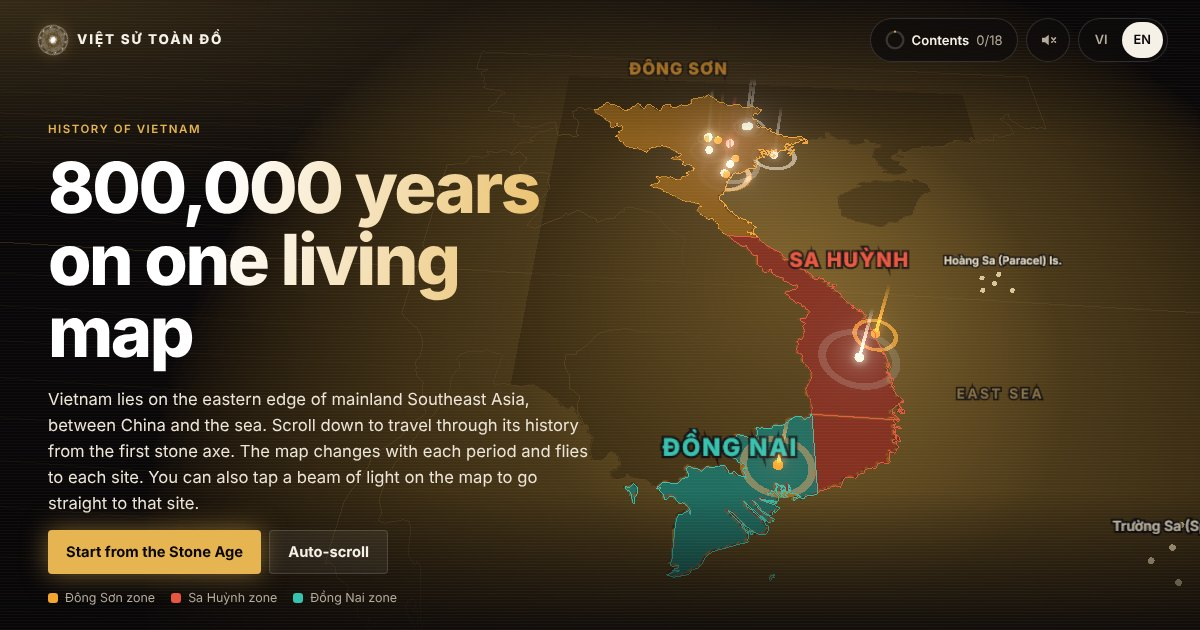
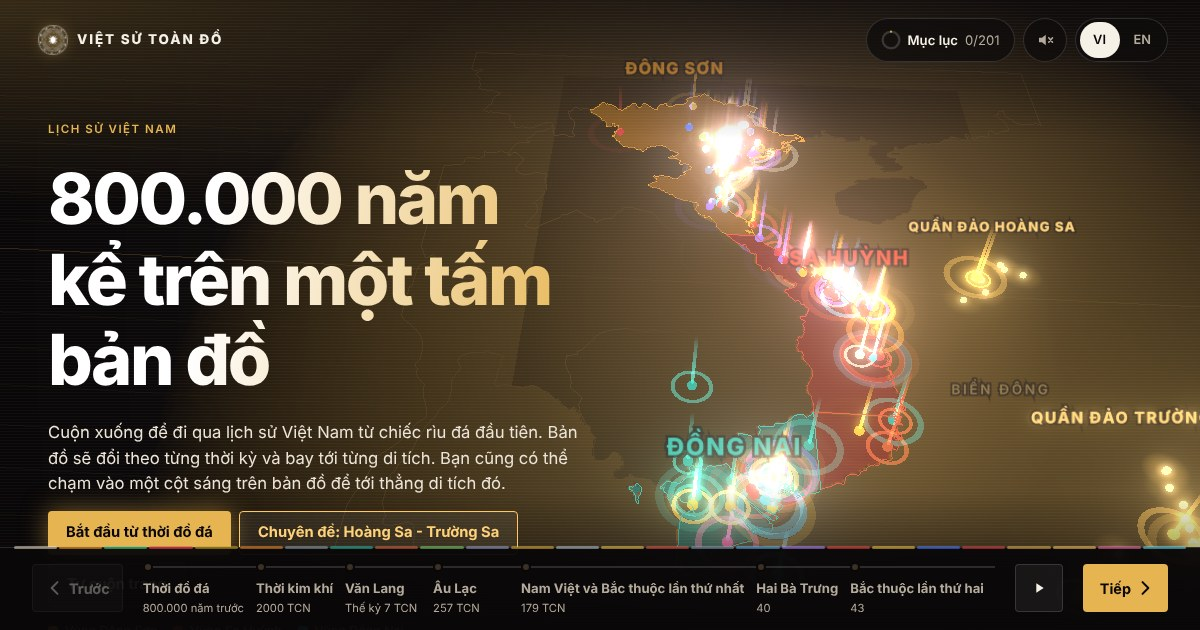
Link preview in Vietnamese: title, description and a new og image
Claude-Session: https://claude.ai/code/session_012HFGmTWt8d3fouoqffd3jb

diff --git a/index.html b/index.html
@@ -5,12 +5,12 @@
     <meta name="viewport" content="width=device-width, initial-scale=1.0, viewport-fit=cover" />
     <meta name="theme-color" content="#090708" />
     <title>Việt Sử Toàn Đồ</title>
-    <meta name="description" content="Lịch sử Việt Nam từ thời đồ đá đến hiện tại, song ngữ Việt - Anh, có dẫn nguồn." />
+    <meta name="description" content="Lịch sử Việt Nam từ thời đồ đá đến hiện tại, kể trên bản đồ địa hình 3D, mỗi ý đều có nguồn." />
     <meta property="og:type" content="website" />
-    <meta property="og:url" content="https://viet-su.vercel.app/" />
-    <meta property="og:title" content="Việt Sử Toàn Đồ - The history of Vietnam, told on a map" />
-    <meta property="og:description" content="800,000 years of Vietnamese history on a 3D terrain map, in Vietnamese and English, with sources. Lịch sử Việt Nam kể trên bản đồ, song ngữ, có dẫn nguồn." />
-    <meta property="og:image" content="https://viet-su.vercel.app/og.jpg" />
+    <meta property="og:url" content="https://vietsutoando.com/" />
+    <meta property="og:title" content="Việt Sử Toàn Đồ - Lịch sử Việt Nam trên một tấm bản đồ" />
+    <meta property="og:description" content="Lịch sử Việt Nam từ thời đồ đá đến hiện tại, kể trên bản đồ địa hình 3D, mỗi ý đều có nguồn." />
+    <meta property="og:image" content="https://vietsutoando.com/og.jpg" />
     <meta name="twitter:card" content="summary_large_image" />
     <link rel="preconnect" href="https://fonts.googleapis.com" />
     <link rel="preconnect" href="https://fonts.gstatic.com" crossorigin />
